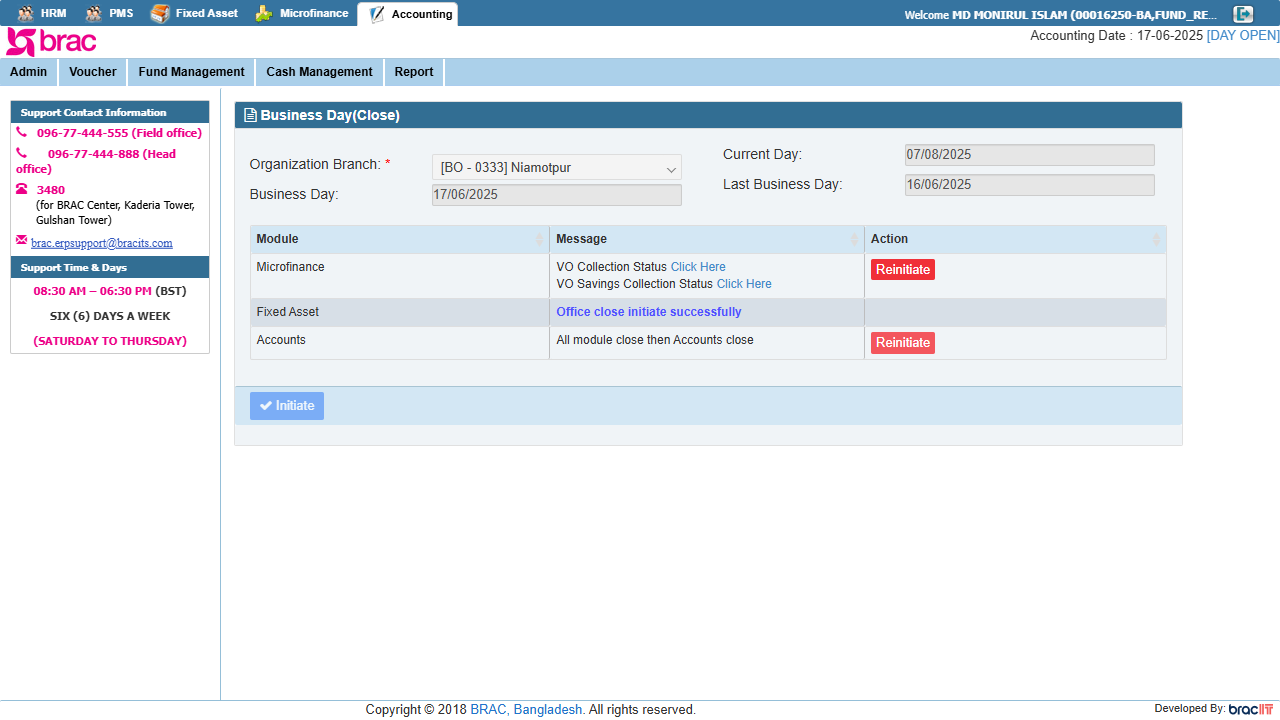
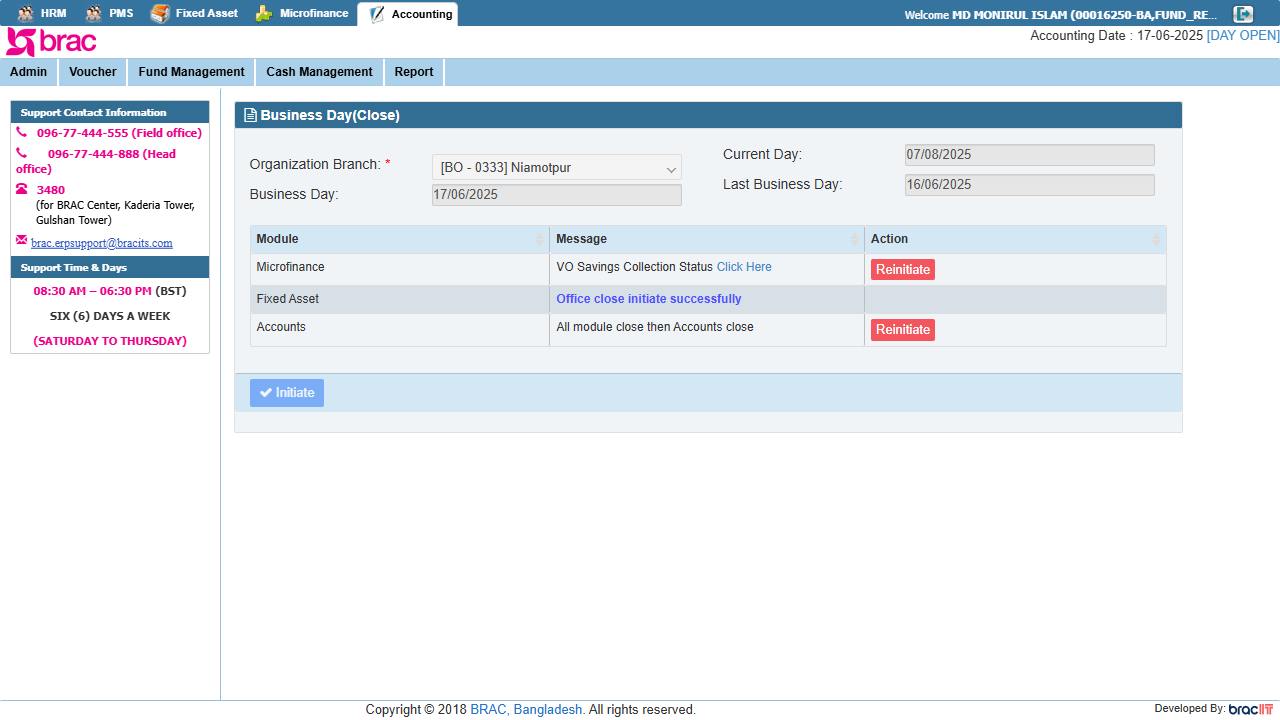
dps, vo, vo savings solved

Changed region(s): [[0.1875, 0.3361, 0.9375, 0.6111]]

diff --git a/pages/dps_vo_page.py b/pages/dps_vo_page.py
@@ -4,30 +4,41 @@ class DPSVOPage:
 
     def click_and_process_link(self, link_element, label):
         print(f"✅ {label} link is visible and clicked.")
+
         with self.page.context.expect_page() as new_page_info:
             link_element.click()
+
         new_tab = new_page_info.value
         print(f"✅ {label} tab opened.")
 
-        retry_button = new_tab.locator('//*[@id="button-block"]/input[2]')
-        if retry_button.is_visible(timeout=3000):
-            retry_button.click()
-            print(f"✅ Retry button clicked in {label}.")
-        else:
-            print(f"⚠ Retry button not visible in {label}.")
+        try:
+            # Wait until tab fully loads
+            new_tab.wait_for_load_state("load", timeout=8000)
+        except:
+            print(f"⚠ {label} tab did not fully load.")
 
-        save_button = new_tab.locator('//*[@id="saveButtonId"]')
-        if save_button.is_visible(timeout=3000):
+        # Wait for retry button (select all)
+        try:
+            retry_button = new_tab.locator('//*[@id="button-block"]/input[2]')
+            retry_button.wait_for(state="visible", timeout=5000)
+            retry_button.click()
+            print(f"✅ Retry (Select All) button clicked in {label}.")
+        except Exception as e:
+            print(f"⚠ Retry (Select All) button not visible/clickable in {label}: {e}")
+
+        # Wait for save button
+        try:
+            save_button = new_tab.locator('//*[@id="saveButtonId"]')
+            save_button.wait_for(state="visible", timeout=5000)
             save_button.click()
             print(f"✅ Save button clicked in {label}.")
-        else:
-            print(f"⚠ Save button not visible in {label}.")
+        except Exception as e:
+            print(f"⚠ Save button not visible/clickable in {label}: {e}")
 
         new_tab.close()
         print(f"✅ {label} tab closed.")
 
     def handle_first_available_link(self):
-        # Get all links inside initiateResponseBody tr > td[2] > a (all anchors)
         links = self.page.locator('//*[@id="initiateResponseBody"]/tr/td[2]/a')
         count = links.count()
 
@@ -35,12 +46,10 @@ class DPSVOPage:
             print("⚠ No links found in the initiateResponseBody table.")
             return False
 
-        # Iterate over all links in order, pick the first visible one and process
         for i in range(count):
             link = links.nth(i)
             if link.is_visible(timeout=3000):
                 text = link.inner_text()
-                href = link.get_attribute("href")
                 label = f"Link #{i+1} ({text})"
                 self.click_and_process_link(link, label)
                 return True
@@ -49,9 +58,6 @@ class DPSVOPage:
         return False
 
     def process_all_links_in_order(self):
-        # This method tries to process links one by one in order.
-        # If you want to click all available links one after another.
-
         links = self.page.locator('//*[@id="initiateResponseBody"]/tr/td[2]/a')
         count = links.count()
 
@@ -63,9 +69,7 @@ class DPSVOPage:
             link = links.nth(i)
             if link.is_visible(timeout=3000):
                 text = link.inner_text()
-                href = link.get_attribute("href")
                 label = f"Link #{i+1} ({text})"
                 self.click_and_process_link(link, label)
             else:
                 print(f"⚠ Link #{i+1} not visible.")
-

diff --git a/tests/test_day_open_close.py b/tests/test_day_open_close.py
@@ -25,9 +25,8 @@ def test_day_close_flow():
 
 
         # After login and office selection
-
-        business_date_text = page.locator('//*[@id="sessionBusinessDateReload"]/span').inner_text().strip()
-        print("🔍 Business Date Text:", business_date_text)
+        # business_date_text = page.locator('//*[@id="sessionBusinessDateReload"]/span').inner_text().strip()
+        # print("🔍 Business Date Text:", business_date_text)
 
 
         page.wait_for_selector('//*[@id="sessionBusinessDateReload"]/a', timeout=15000)
@@ -38,15 +37,12 @@ def test_day_close_flow():
             print("🔁 Status is DAY OPEN — navigating to Day Close.")
             day_close.add_currency_denomination()
             day_close.go_to_day_close()
-            #day_close.click_initiate()
+            day_close.click_initiate()
 
             # Handle pending links before clicking Day Close
-            # Instead of separate handle calls, call this single method
             dps_vo_page = DPSVOPage(page)
             dps_vo_page.handle_first_available_link()
             click_reinitiate_buttons(page)
-            day_close.click_initiate()
-
             day_close.click_day_close()
             
         else:

diff --git a/pages/day_close_page.py b/pages/day_close_page.py
@@ -1,3 +1,4 @@
+from time import time
 from playwright.sync_api import Page
 import pyperclip
 
@@ -27,6 +28,8 @@ class DayClosePage:
         self.page.locator('xpath=/html/body/div[11]/div[7]/div/button').wait_for(timeout=5000)
         self.page.locator('xpath=/html/body/div[11]/div[7]/div/button').click()
 
+
+
     def go_to_day_close(self): #day close button
         self.page.locator('//*[@id="module-accounting"]/a').click() #accounting
         self.page.locator('//*[@id="wrapper"]/ul/li[1]').click()    #admin
@@ -42,9 +45,12 @@ class DayClosePage:
             self.page.locator('xpath=/html/body/div[11]/div[7]/div/button').click()
             print("2")
 
-
+            
     def click_day_close(self): 
         if self.page.locator('//*[@id="dayClose"]').is_visible(timeout=3000):
             self.page.locator('//*[@id="dayClose"]').click()
             print("✅ Day Close clicked.")
             print("3")
+
+
+

diff --git a/pages/login_page.py b/pages/login_page.py
@@ -13,3 +13,5 @@ class LoginPage:
         self.page.locator('//*[@id="officeIdDiv_arrow"]').click()
         self.page.locator(office_xpath).click()
         self.page.locator('//*[@id="search-form"]/div[3]/span[1]/input').click()
+
+
